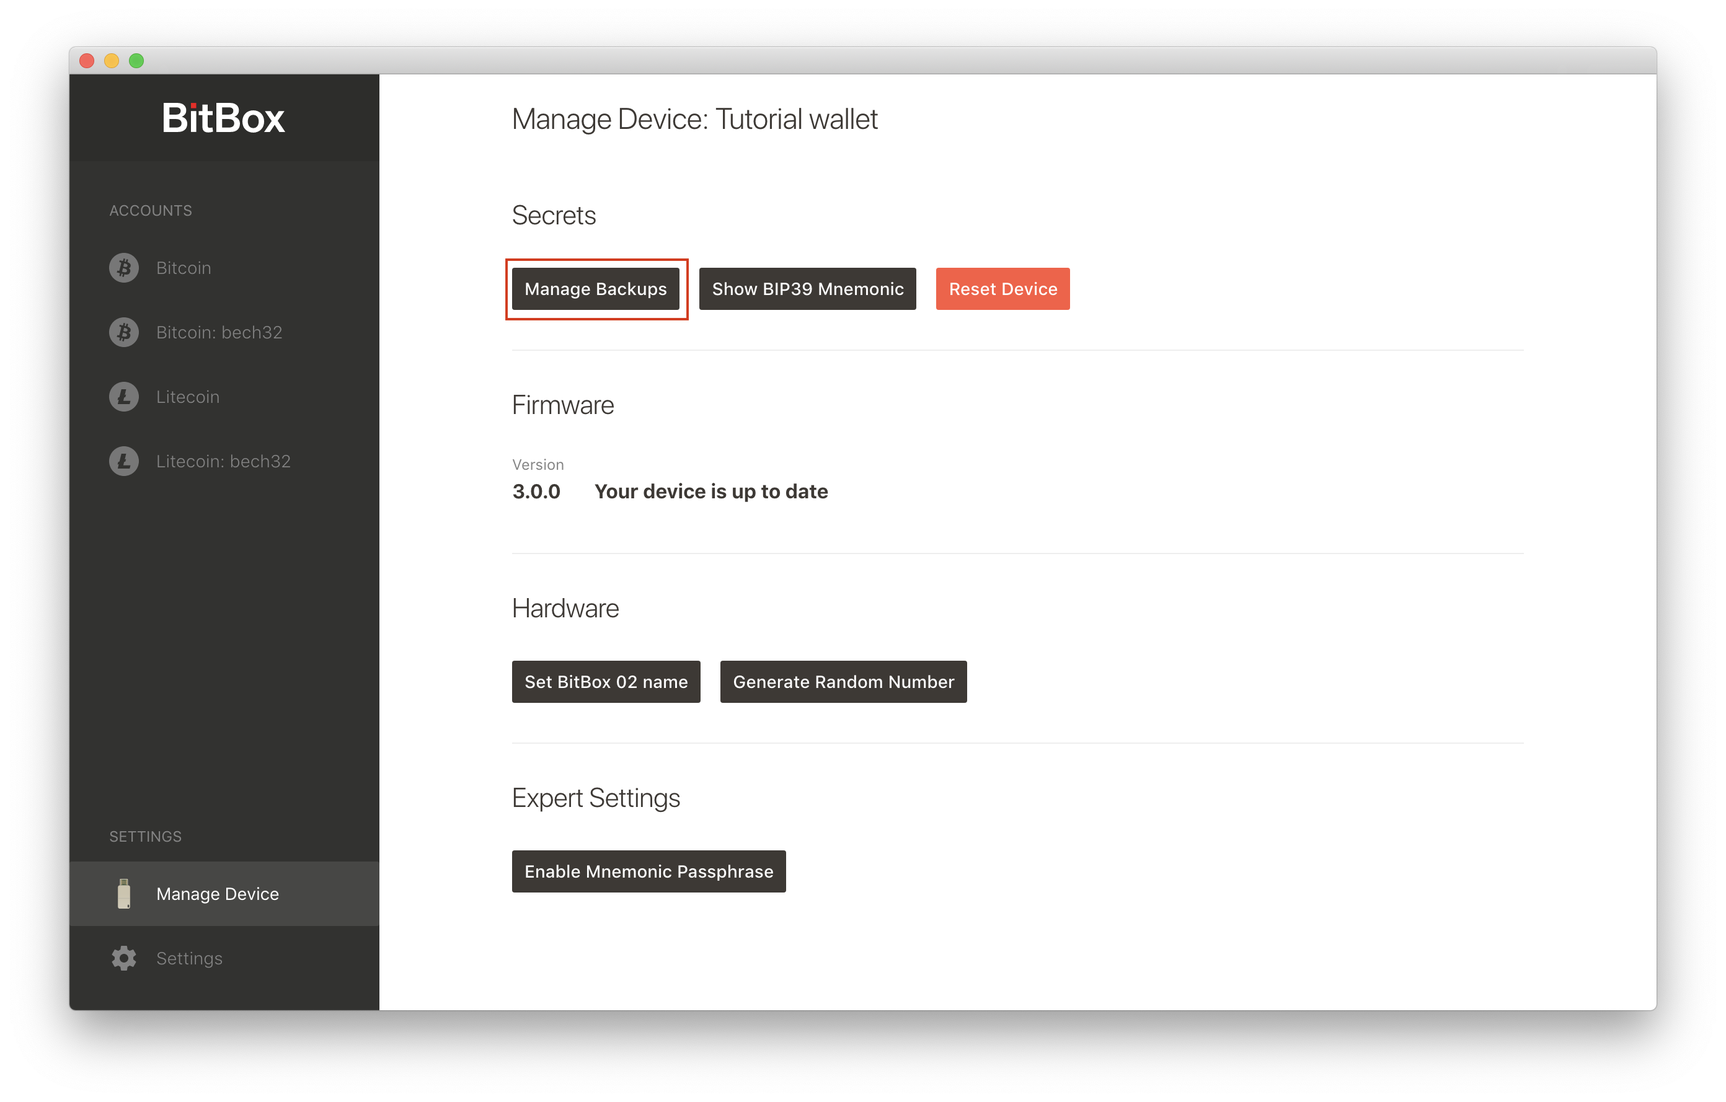
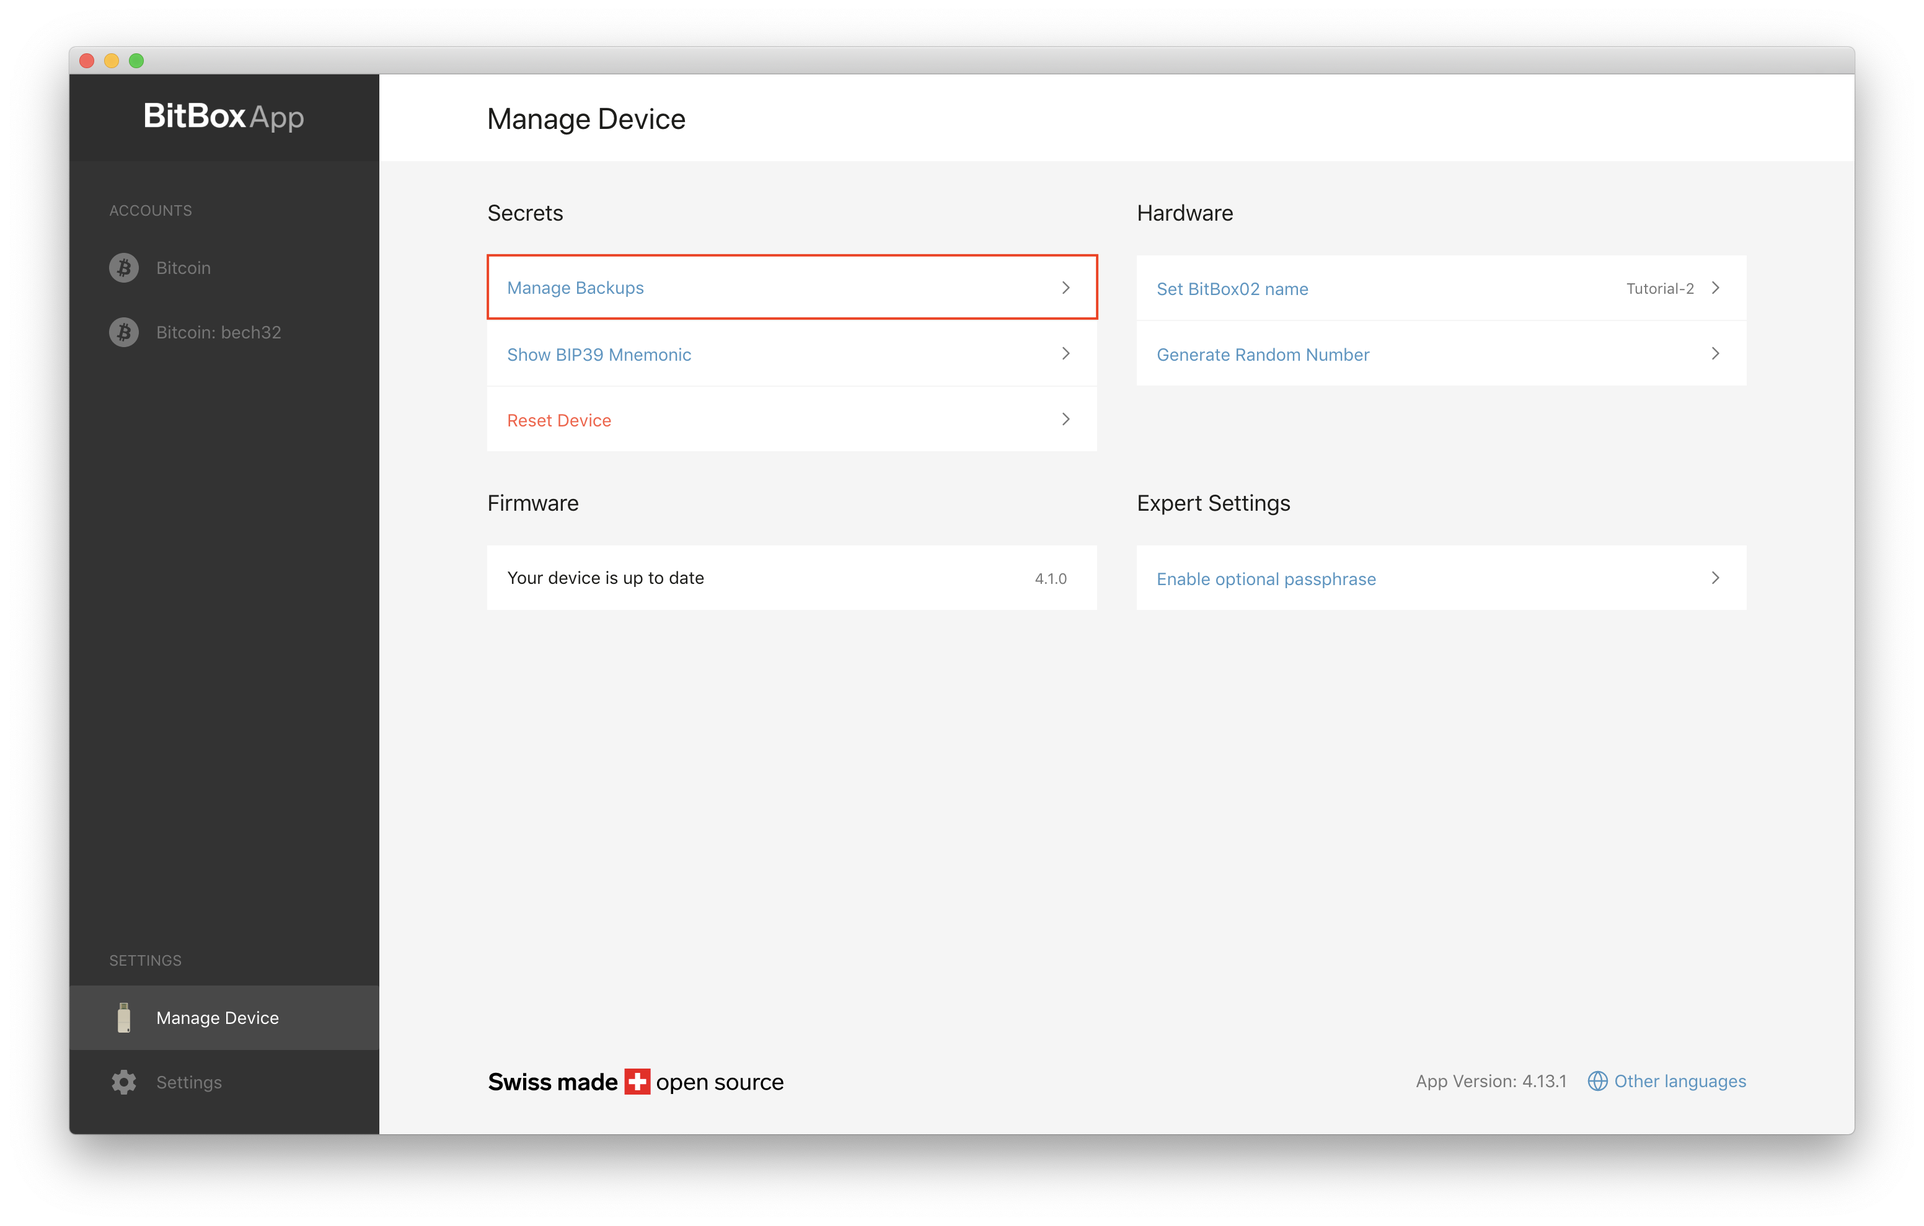
updated verify_release, updated all BB02 screenshots to new App

diff --git a/bitbox02/Advanced-features/passphrase.md b/bitbox02/Advanced-features/passphrase.md
@@ -16,7 +16,7 @@ grand_parent: BitBox02
 {:toc}
 ---
 ## How it works
-When you set up a BitBox02, it  generates a long random number which is converted into a mnemonic seed, which is  stored on the device and on the microSD card backup.
+Simplified: When you set up a BitBox02, it  generates a "long random number" which is converted into a mnemonic seed, which is  stored on the device and on the microSD card backup.
 
 Subsequently, whenever the BitBox02 is used, it derives a cryptocurrency wallet via a (very simplified) formula:
 **mnemonic seed + passphrase**
@@ -49,12 +49,12 @@ If you enter an empty passphrase (no passphrase at all), your BitBox02 will proc
 The idea behind this is that if you ever find yourself in a situation where somebody is trying to extort a ransom from you or puts you under duress, you can safely give up the PIN.
 
 ### Risks of using a passphrase
-1. Because the passphrase is not stored anywhere, you need to take all necessary precautions in order to make sure the passphrase stays safe and accessible, be it a physical backup or just your memory.
+1. Because the passphrase is not stored anywhere automatically, you need to take **all necessary precautions** in order to make sure that the passphrase stays safe and accessible e.g. by making a physical backup.
 2. If the passphrase is lost, it can only be found by guessing (brute-forcing) which is often technologically and economically infeasible (read impossible). The difficulty of guessing the passphrase varies depending on the strength (complexity) of the passphrase.
 
 ## Using a passhrase
-### Enable Mnemonic Passphrase in device settings
-Go to "Device settings" and click "Enable Mnemonic Passphrase".
+### Enable optional passphrase in device settings
+Go to "Device settings" and click "Enable optional passphrase".
 ![alt text]({% link assets/images/BitBox02_passphrase/passphrase1.png %})
 
 You will then see the following warning
@@ -65,9 +65,10 @@ Please make sure you understand how a passphrase works. If that is the case, con
 Then you will see the following:
 ![alt text]({% link assets/images/BitBox02_passphrase/passphrase3.png %})
 
-From now on you will be asked for a passphrase after every device unlock. If you want to use your "normal" wallet just confirm directly i.e. with no passphrase input.
+From now on you will be asked for a passphrase after every device unlock.
+- If you want to use your "normal" wallet just confirm directly i.e. with no passphrase input / empty passphrase.
 
-If you want to access a passphrase-protected wallet, type in the corresponding passphrase and then confirm.
+- If you want to access a passphrase-protected wallet, type in the corresponding passphrase and then confirm.
 
-### Pro tip: hiding that you are using passphrases.
-If you don't want to be asked for your passphrase every time you unlock your BitBox02 you can click "Disable Mnemonic Passphrase" at any time in the device settings. As no data about your passhrase is stored on the device (you need to backup/memorise your passphrase independently) nothing is deleted. If you want to use the passphrase-protected wallet again you can just "Enable Mnemonic Passphrase" again and then use the same passphrase again to access that wallet.
+### Pro tip: hiding that you are using a passphrase.
+If you don't want to be asked for your passphrase every time you unlock your BitBox02 you can click "Disable optional passphrase" at any time in the device settings. As no data about your passphrase is stored on the device (you need to backup your passphrase independently) nothing is deleted. If you want to use the passphrase-protected wallet again you can just "Enable optional passphrase" again and then use the same passphrase again to access that wallet.

diff --git a/bitbox02/Basic-features/restore_from_backup.md b/bitbox02/Basic-features/restore_from_backup.md
@@ -18,41 +18,39 @@ grand_parent: BitBox02
 
 In order to reset from a backup, your BitBox02 needs to be reset.
 
-## Plug in the microSD card with your backup and plug in the BitBox02
-In order to be able to restore from a backup file, the microSD card with the backup on it needs to be plugged in. Once done, plug in your BitBox02 with the BitBox App open.
+## Plug in the microSD card containing your backup and plug in the BitBox02
+In order to be able to restore from a backup, the microSD card containing the backup needs to be inserted. Once done, plug in your BitBox02 with the BitBox App open.
 
-As your device is reset, you will need to re-pair it again.
+As your device is reset, you will first need to pair it again.
 
 Please compare the code on your BitBox02 and in the BitBoxApp and confirm on your BitBox02 if they match. Then click "Confirm & Continue" in the BitBox App.
 ![alt text]({% link assets/images/BitBox02_restore/restore1.png %})
 
 ## Choose that you want to restore from a backup file
-Please select that you want to restore from a backup file on your microSD card by clicking "Restore Backup".
+Please select that you want to restore from a backup file on your microSD card by clicking "Restore from microSD card".
 ![alt text]({% link assets/images/BitBox02_restore/restore2.png %})
 
-## Start the restoring process
-The BitBox App will now remind you that your microSD card with your backup file needs to be plugged into the BitBox02 and that you will need to choose a device password.
+## Choose backup file
+The BitBox App will now remind you that your microSD card with your backup needs to be inserted if not already done.
 
-Click "Continue"
+Next you will see a list of all backup files that were found on your microSD card.
+
+In most cases that would just be one file.
+
+Select the wallet you want to restore and click "Restore".
+
 
 ![alt text]({% link assets/images/BitBox02_restore/restore3.png %})
 
-## Choose backup file
-In the next step you will see a list of all backup files that were found on your micorSD card.
-In most cases that would just be one file.
-
-Please select the wallet you want to restore and click "Restore".
-![alt text]({% link assets/images/BitBox02_restore/restore4.png %})
 
 ## Choose device password
 Next you will need to input a device password on your BitBox02. You will need this password every time you want to use your BitBox02.
 
-Please input and confirm the device password on your BitBox02.
-![alt text]({% link assets/images/BitBox02_restore/restore5.png %})
+Please input and confirm the device password on your BitBox02 and afterwards confirm today's date.
+![alt text]({% link assets/images/BitBox02_restore/restore4.png %})
 
 ## Done! Start using your BitBox02
 You have successfully restored your wallet and can continue using your BitBox02 as usual.
 
-Please make sure you store your backup microSD card in a secure location. Anyone that finds it can steal your coins unless you use an additional [passphrase]({% link bitbox02/Advanced-features/passphrase.md %})
-![alt text]({% link assets/images/BitBox02_restore/restore6.png %})
-![alt text]({% link assets/images/BitBox02_restore/restore7.png %})
+**Please make sure you store your backup microSD card in a secure location**. Anyone that finds it can steal your coins unless you use an additional [passphrase]({% link bitbox02/Advanced-features/passphrase.md %})
+![alt text]({% link assets/images/BitBox02_restore/restore5.png %})

diff --git a/bitbox02/Basic-features/managing_backups.md b/bitbox02/Basic-features/managing_backups.md
@@ -17,24 +17,24 @@ grand_parent: BitBox02
 {:toc}
 
 ---
-Please make sure you have the microSD card with your backup plugged into your BitBox02.
+Please make sure you have the microSD card that contains your backup inserted into your BitBox02.
 ## Listing the backup files
 In order to check which backup files are on your microSD card, click "Manage Backups"
 ![alt text]({% link assets/images/BitBox02_backups/backups1.png %})
-You will then see a list of all backup files that are on the currently plugged-in microSD card.
+You will then see a list of all backup files found on the currently inserted microSD card.
 
-Normally that is just one file.
+Normally that is just one file:
 ![alt text]({% link assets/images/BitBox02_backups/backups2.png %})
 ## Verifying a backup
-In order to verify, that one of the backup files on the currently plugged-in microSD card is a backup of the wallet you are using on your BitBox02 (and not a backup of some other wallet which you might not be using anymore) click "Check Backup".
+In order to verify, that one of the backup files on the currently inserted microSD card is a backup of the wallet you are currently using on your BitBox02 (and not a backup of some other, older wallet which you might not be using anymore) click "Check Backup".
 
 You should then see a pop-up like this:
 
 ![alt text]({% link assets/images/BitBox02_backups/backups3.png %})
 
-That pop-up tells you that there is a backup for the currently used wallet, i.e. in this case there is a backup for the wallet called "Tutorial wallet" which is the wallet I'm currently using.
+That pop-up tells you that there is a backup for the currently used wallet, i.e. in this case there is a backup for the wallet called "Tutorial-2" which is the wallet I'm currently using.
 
-You are then asked to confirm, that the ID shown in the BitBox App matches the ID shown on your BitBox02.
+You are then asked to confirm that the ID shown in the BitBox App matches the ID shown on your BitBox02.
 If that is the case please confirm on your BitBox02 and then click "OK" in the BitBox App.
 
 ## Creating a new backup
@@ -43,18 +43,15 @@ If your backup was destroyed or you would just like to create another backup to 
 ### Plug in the new microSD card and click "Manage Backups"
 ![alt text]({% link assets/images/BitBox02_backups/backups1.png %})
 
-You should then see the following:
-![alt text]({% link assets/images/BitBox02_backups/backups4.png %})
-
 ### Click "Create Backup"
-![alt text]({% link assets/images/BitBox02_backups/backups5.png %})
+![alt text]({% link assets/images/BitBox02_backups/backups4.png %})
 
 ### Follow instructions on your BitBox02
 Next you should see a pop-up telling you to follow the instructions on your BitBox02 screen.
 
-![alt text]({% link assets/images/BitBox02_backups/backups6.png %})
+![alt text]({% link assets/images/BitBox02_backups/backups5.png %})
 
-On your BitBox02 you will first need to confirm that you understand that **by default backup files are not password protected, i.e. if someone finds your backup they can steal your coins**.
+<!--On your BitBox02 you will first need to confirm that you understand that **by default backup files are not password protected, i.e. if someone finds your backup they can steal your coins**.-->
 
 Then you will be asked to input your device password to confirm the backup creation.
 

diff --git a/bitbox_app/addresses.md b/bitbox_app/addresses.md
@@ -22,12 +22,12 @@ parent: BitBox App
 Since version 4.0.0 of the BitBox Desktop App it supports three Bitcoin transaction formats:
 * Legacy — referred to as “Bitcoin Legacy” in the app
 * Segwit — referred to as “Bitcoin” in the app
-* Bech32 — referred to as “Bitcoin bech32” in the app
+* Bech32 — referred to as “Bitcoin: bech32” in the app
 
 
 **Info:** If you have upgraded the desktop app from an older version, your bitcoin will appear in the “Bitcoin Legacy” account.
 
-## Bitcoin Legacy
+## Legacy
 This account is based on the old transaction format. While upgrading your desktop app, your bitcoin balance and transaction history will be visible here. Now that network fees are relatively low, we recommend moving your bitcoin to the Segwit account at your earliest convenience.
 
 ## Segwit
@@ -35,7 +35,7 @@ Also known as “Segregated Witness” is now supported with a dedicated account
 Perhaps most importantly, Segwit is required to enable the upcoming Lightning network which is designed to reduce transaction speed to milliseconds (from minutes which is the case for bitcoin transactions today). Lightning will significantly increase network capacity by moving the bulk of transactions onto a decentralised second-layer.
 In order to reduce your future transaction fees and support the bitcoin network, we recommend moving your legacy bitcoin into the Segwit account and start using it immediately. You can easily do this with the BitBox desktop app: simply generate a receive address in a bitcoin Segwit account and send your coin there from the bitcoin legacy account. In the desktop app, your bitcoin Segwit account is the first one listed. Segwit addresses always start with the number “3”.
 
-## Bitcoin Bech32:
+## Bech32:
 This is a newer version of the SegWit address format which incurs even lower network fees. Unfortunately it is not yet widely supported so some wallets/services might not let you send to a bech32 address. Its addresses always start with “bc1”. You can receive bitcoin to your Bech32 account from other wallets and services that support Bech32, and you can send bitcoin from your Bech32 account to any address. You can track the progress of Bech32 adoption at bitcoin.it/wiki/Bech32_adoption. Bech32 is not visible in the desktop app by default, to activate it go to the Settings in the lower left corner.
 
 **Original post:** [https://medium.com/shiftcrypto/bitbox-desktop-app-4-0-0-a-look-at-bitcoin-addressing-segwit-bech32-and-legacy-abcd788a684b](https://medium.com/shiftcrypto/bitbox-desktop-app-4-0-0-a-look-at-bitcoin-addressing-segwit-bech32-and-legacy-abcd788a684b)

diff --git a/_includes/shared/history.md b/_includes/shared/history.md
@@ -4,8 +4,8 @@ There are four different types of transactions that can show up in your transact
 ### Pending incoming transaction
 An incoming transaction will at first be pending. That means it is not confirmed in the Bitcoin blockchain yet. You can see that the transaction in the screenshot is pending in two spots.
 
-1. It says "Pending transaction" on the right of the green "In" symbol
-2. Below the wallet balance, which is still zero as only confirmed transactions are counted, it says "Incoming +0.002 BTC"
+1. It says "Pending" on the "STATUS" column.
+2. Below the wallet balance it says "Incoming +0.00093551 BTC"
 
 ![alt text]({% link assets/images/BitBox_history/pending_incoming.png %})
 
@@ -16,7 +16,7 @@ Once a formerly pending transaction has its first confirmation (i.e. it was incl
 
 
 ### Pending outgoing transaction
-An outgoing transaction will at first be pending. That means it is not confirmed in the Bitcoin blockchain yet. You can see that the transaction in the screenshot is pending as it says "Pending transaction" on the right of the red "Out" symbol
+An outgoing transaction will at first be pending. That means it is not confirmed in the Bitcoin blockchain yet. You can see that the transaction in the screenshot is pending as it says "Pending" in the "STATUS" column.
 
 
 ![alt text]({% link assets/images/BitBox_history/pending_outgoing.png  %})
@@ -28,13 +28,8 @@ Once a formerly pending transaction has its first confirmation (i.e. it was incl
 IMAGE
 
 ## Transaction details
-If you want to see further details about a transaction you can click on the downward arrow on the left of the green/red transaction type.
+If you want to see further details about a transaction you can click on the "details symbol" on the left of each row.
 
-Clicking that will drop down and show you the following transaction details:
-* Number of confirmations
-* Virtual transaction size
-* Transaction size
-* Transaction weight
-* Transaction ID with link to block explorer
+Clicking that will open a pop-up and show you additional transaction details.
 
 ![alt text]({% link assets/images/BitBox_history/transaction_details.png %})

diff --git a/_includes/shared/sending.md b/_includes/shared/sending.md
@@ -9,15 +9,15 @@
 ![alt text]({% link assets/images/BitBox02_send/send4.png %})
 
 ## Choose the fee
-The higher the fee, the quicker your transaction will be confirmed in the blockchain. A low fee should be sufficient for most cases.
+The higher the fee, the quicker your transaction will be confirmed in the blockchain. A low fee should be sufficient in most cases.
 ![alt text]({% link assets/images/BitBox02_send/send5.png %})
 
 ## Click "Sign and Send"
 ![alt text]({% link assets/images/BitBox02_send/send6.png %})
 
 {% if include.product == "BitBox02" %}
-## Verify the details in the app and on your {{include.product}}
-It is crucial that you make sure the transaction details are correct. There is no reverse button in Bitcoin.
+## Verify the transaction details on your {{include.product}}
+It is crucial that you make sure the transaction details are correct. **There is no reverse button in Bitcoin.**
 
 Please double check all transaction details on your {{include.product}}.
 
@@ -36,6 +36,3 @@ If you confirmed the transaction on your  {{include.product}} you should see thi
 Please confirm or deny the transaction on your {{include.product}}
 ![alt text]({% link assets/images/BitBox01_random/bb01_send1.png %})
 {% endif %}
-
-In this case the address I sent to was an address I got by clicking the receive button, i.e. I sent the coins from my  {{include.product}} to my  {{include.product}}, therefore the transaction is labeled as "Self" in the transaction history view.
-![alt text]({% link assets/images/BitBox02_send/send9.png  %})

diff --git a/bitbox02/Basic-features/sending.md b/bitbox02/Basic-features/sending.md
@@ -17,32 +17,5 @@ grand_parent: BitBox02
 {:toc}
 
 ---
-## Click the send button
-![alt text]({% link assets/images/BitBox02_send/send1.png %})
 
-## Paste in the address you want to send to
-![alt text]({% link assets/images/BitBox02_send/send3.png %})
-
-## Enter the amount you want to send
-![alt text]({% link assets/images/BitBox02_send/send4.png %})
-
-## Choose the fee
-The higher the fee, the quicker your transaction will be confirmed in the blockchain. A low fee should be sufficient for most cases.
-![alt text]({% link assets/images/BitBox02_send/send5.png %})
-
-## Click "Sign and Send"
-![alt text]({% link assets/images/BitBox02_send/send6.png %})
-
-## Verify the details in the app and on your BitBox02
-It is crucial that you make sure the transaction details are correct. There is no reverse button in Bitcoin.
-
-Please double check all transaction details on your BitBox02.
-
-If what you see on your BitBox02 is correct, then confirm the transaction on your BitBox02.
-![alt text]({% link assets/images/BitBox02_send/send7.png %})
-
-If you confirmed the transaction on your BitBox02 you should see this screen shortly after:
-![alt text]({% link assets/images/BitBox02_send/send8.png %})
-
-In this case the address I sent to was an address I got by clicking the receive button, i.e. I sent the coins from my BitBox02 to my BitBox02, therefore the transaction is labeled as "Self" in the transaction history view.
-![alt text]({% link assets/images/BitBox02_send/send9.png %})
+{% include shared/sending.md product="BitBox02" %}

diff --git a/bitbox_app/verify_release.md b/bitbox_app/verify_release.md
@@ -17,7 +17,9 @@ parent: BitBox App
 
 In order to verify the downloaded BitBox App please do the following:
 
-## Get Benma's (lead developer) public key
+## Get benma's public key
+<small>Info: Benma is the lead developer of the BitBox App.</small>
+
 Run in your command line:
 
 ```
@@ -32,14 +34,14 @@ Download both from [Github](https://github.com/digitalbitbox/bitbox-wallet-app/r
 If you have already downloaded the BitBox App from our website then just download the .asc file that corresponds to your operating system.
 
 ## Place BitBox App and .asc file in separate folder
-Create a new folder and move both the BitBox App and the .asc file into that folder.
+Create a new folder and move both, the uninstalled/unzipped BitBox App file and the .asc file into that folder.
 
 ## Verify signatures
 On your command line navigate into the newly created folder and run the following command:
 
 `gpg --verify BitBox-4.13.1-macOS.zip.asc`
 
-(Depending on when you do this update the command to use the .asc file you just dowloaded).
+(Depending on when you do this update the command to use the corresponding .asc file you just dowloaded).
 
 ### You should then see the following:
 
@@ -52,3 +54,4 @@ gpg: Good signature from "Marko Bencun <marko@shiftcrypto.ch>" [ultimate]
 gpg:                 aka "Marko Bencun <mbencun+pgp@gmail.com>" [ultimate]
 
 ```
+(The [ultimate] could say [unknown] or something else depending on your trust level.)

diff --git a/bitbox02/Advanced-features/view_bip39.md b/bitbox02/Advanced-features/view_bip39.md
@@ -22,7 +22,7 @@ If you want to make a backup to a microSD card, [follow this guide]({% link bitb
 If you want to display your BIP39 mnemonic seed on your BitBox02 in order to write it on paper or punch it into metal continue reading.
 > **Note:** It is not necessary to write down your BIP39 mnemonic seed as you have already created a wallet backup onto a microSD card when you initialised your BitBox02. This is an advanced feature.
 
-## Click "Show BIP39 Mnemonic" and confirm risks
+## Show BIP39 mnemonic seed
 In "Device settings" click "Show BIP39 Mnemonic".
 ![alt text]({% link assets/images/BitBox02_mnemonic/bip39_1.png %})
 
